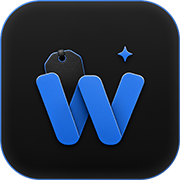
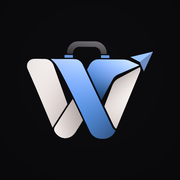
feat(revamp): lights down for Go (same system as Wardrobe)
- Photos float: no grey plates; wardrobe photos are screen-blended into
  whatever is behind them.
- Hairline groups instead of filled navy cards; chips, fields, the
  segmented control, secondary buttons and the sheet close button
  outlined in fog. Solid blue only on each screen's one primary action.
- Archivo for moments (Trips greeting, Gear, New trip, a trip's name);
  system stack for everything else.
- PIN screen: the Go icon and wordmark, outlined keys.
- New icon set from the approved folded-W suitcase, with separate any and
  maskable icons (both public/ and public/icons/).

Checked at 360x756 (Chromium): PIN, Trips, a 72-item trip, Gear, New trip.

diff --git a/src/app/globals.css b/src/app/globals.css
@@ -58,16 +58,33 @@
 }
 
 @layer components {
-  /* Standard card surface */
+  /* A group that is genuinely a group. Revamp ("Lights down", Nov 2026, same
+     system as WearWise Wardrobe): a hairline and the faintest lift instead of
+     a filled navy box. On the black canvas the filled cards were the loudest
+     thing on every screen. */
   .go-card {
-    @apply bg-ink-200 border border-white/[0.06] rounded-[1.65rem];
+    @apply rounded-[1.65rem] border border-white/[0.08] bg-white/[0.025];
   }
 
-  /* One UI grouped list: one surface, rows separated by hairlines. Used for
+  /* Grouped list: one hairline frame, rows separated by hairlines. Used for
      packing sections and the Gear page instead of a card per item. */
   .group-list {
-    @apply overflow-hidden rounded-[1.5rem] border border-white/[0.06] bg-ink-200;
+    @apply overflow-hidden rounded-[1.5rem] border border-white/[0.08] bg-white/[0.02];
   }
+
+  /* Display type: moments only (greeting, page titles, a trip's name).
+     Archivo, opened up slightly on its width axis. Labels never use it. */
+  .type-display {
+    font-family: var(--font-display), 'SamsungOne', -apple-system, system-ui, sans-serif;
+    font-variation-settings: 'wdth' 112;
+    font-weight: 620;
+    letter-spacing: -0.025em;
+  }
+  .type-greeting { @apply type-display text-[31px] leading-[1.06] text-fog-100; }
+  .type-title    { @apply type-display text-[28px] leading-[1.1] text-fog-100; }
+
+  /* A photo whose wrapper animates: blend the wrapper, not the <img>. */
+  .garment { mix-blend-mode: screen; }
 
   /* Section heading. Sentence case, fog white. No uppercase tracked blue
      eyebrows: they restated what the screen already said and spent the
@@ -94,7 +111,7 @@
      switching a view is navigation, not a decision. Selection follows the
      ARIA attribute, so a segment cannot look chosen without announcing it. */
   .seg {
-    @apply grid gap-1 rounded-full bg-white/[0.05] p-1;
+    @apply grid gap-1 rounded-full border border-white/[0.08] p-1;
   }
   .seg-item {
     @apply press flex min-h-[44px] items-center justify-center gap-1.5 rounded-full px-2
@@ -110,9 +127,9 @@
 
   /* Choice chip (vibes, categories). Same selected treatment as a segment. */
   .chip {
-    @apply press inline-flex min-h-[44px] items-center gap-1.5 rounded-full border border-white/[0.08]
-           bg-white/[0.04] px-3.5 text-[13px] font-semibold text-fog-300 transition-colors duration-200
-           hover:bg-white/[0.08] hover:text-fog-100
+    @apply press inline-flex min-h-[44px] items-center gap-1.5 rounded-full border border-white/[0.10]
+           bg-transparent px-3.5 text-[13px] font-semibold text-fog-300 transition-colors duration-200
+           hover:border-white/[0.18] hover:text-fog-100
            focus-visible:outline-none focus-visible:ring-2 focus-visible:ring-blue-400;
   }
   .chip[aria-pressed='true'],
@@ -123,14 +140,16 @@
 
   /* Text input on a surface */
   .field {
-    @apply h-12 w-full rounded-oneui border border-white/[0.06] bg-ink-300 px-4 text-[15px] text-fog-100
+    @apply h-12 w-full rounded-oneui border border-white/[0.10] bg-transparent px-4 text-[15px] text-fog-100
            outline-none transition-colors placeholder:text-fog-500 focus:border-blue-400;
   }
 
-  /* A garment photo's plate. Wardrobe photos are flattened onto black with a
-     faint vignette; blending with `lighten` dissolves that box into the plate. */
-  .photo-well { background: rgb(var(--well)); }
-  .photo-well img { mix-blend-mode: lighten; }
+  /* A garment photo's home. Revamp: no plate. Wardrobe photos are shot on
+     black, so on the black canvas they need nothing, and `screen` dissolves
+     their black into whatever is behind them (a sheet, a hairline group)
+     while adding light rather than flattening shadows like `lighten` did. */
+  .photo-well { background: transparent; }
+  .photo-well img { mix-blend-mode: screen; }
 
   /* Bottom nav surface. Frosted by default (all Safari can do); on Chromium
      useLiquidGlass adds real edge refraction and sets data-glass, which thins

diff --git a/src/app/unlock/page.tsx b/src/app/unlock/page.tsx
@@ -2,6 +2,7 @@
 
 import { cn } from '@/lib/cn';
 import { Delete } from 'lucide-react';
+import Image from 'next/image';
 import { useRouter } from 'next/navigation';
 import { useCallback, useEffect, useRef, useState } from 'react';
 
@@ -75,14 +76,16 @@ export default function UnlockPage() {
   if (welcome) {
     return (
       <main className="flex min-h-dvh flex-col items-center justify-center gap-2">
-        <p className="text-[26px] font-semibold text-fog-100">Welcome back</p>
+        <p className="type-greeting">Welcome back</p>
       </main>
     );
   }
 
   return (
     <main className="flex min-h-dvh flex-col items-center justify-center px-8 pb-10">
-      <p className="text-[15px] font-semibold uppercase tracking-[0.32em] text-fog-100">WearWise Go</p>
+      {/* The app's own mark, then its name. Icons are outside the PIN gate (proxy.ts). */}
+      <Image src="/icon-192.png" alt="" width={72} height={72} priority className="rounded-[22px] ring-1 ring-white/[0.08]" />
+      <h1 className="type-display mt-5 text-[28px] leading-none text-fog-100">WearWise Go</h1>
 
       <p className="mt-3 text-[15px] text-fog-300" aria-live="polite">
         {error ? 'That is not it. Try again.' : 'Enter your PIN'}
@@ -122,7 +125,7 @@ export default function UnlockPage() {
               type="button"
               onClick={() => push(k)}
               disabled={busy}
-              className="press mx-auto flex h-16 w-16 items-center justify-center rounded-full bg-white/[0.05] text-[24px] font-medium text-fog-100 transition-colors active:bg-blue-400/20 disabled:opacity-40 focus-visible:outline-none focus-visible:ring-2 focus-visible:ring-blue-400"
+              className="press mx-auto flex h-16 w-16 items-center justify-center rounded-full border border-white/[0.10] text-[25px] font-normal text-fog-100 transition-colors active:border-blue-400/60 active:bg-blue-400/15 disabled:opacity-40 focus-visible:outline-none focus-visible:ring-2 focus-visible:ring-blue-400"
             >
               {k}
             </button>

diff --git a/src/components/TravelItemSheet.tsx b/src/components/TravelItemSheet.tsx
@@ -58,7 +58,7 @@ export function TravelItemSheet({ item, onClose, onDeleted }: Props) {
     <OneUISheet open onClose={close} title="Gear">
       <div className="space-y-5">
         <div className="flex items-center gap-4">
-          <div className="relative flex h-[72px] w-[72px] shrink-0 items-center justify-center overflow-hidden rounded-[1.2rem] bg-ink-300">
+          <div className="relative flex h-[72px] w-[72px] shrink-0 items-center justify-center overflow-hidden rounded-[1.2rem] border border-white/[0.10]">
             {display.image ? (
               <Image src={display.image} alt={item.name} width={144} height={144} className="h-full w-full object-cover" />
             ) : (
@@ -81,18 +81,18 @@ export function TravelItemSheet({ item, onClose, onDeleted }: Props) {
             {CATEGORY_LABELS[item.category]}
           </span>
           {item.layer && (
-            <span className="rounded-full bg-ink-300 px-3 py-1.5 text-[12px] font-medium text-fog-300">
+            <span className="rounded-full border border-white/[0.10] px-3 py-1.5 text-[12px] font-medium text-fog-300">
               {LAYER_LABELS[item.layer] ?? item.layer}
             </span>
           )}
           {item.size_ml != null && (
-            <span className="flex items-center gap-1 rounded-full bg-ink-300 px-3 py-1.5 text-[12px] font-medium text-fog-300">
+            <span className="flex items-center gap-1 rounded-full border border-white/[0.10] px-3 py-1.5 text-[12px] font-medium text-fog-300">
               <Droplets size={12} aria-hidden="true" />
               {item.size_ml} ml
             </span>
           )}
           {item.tags.map((tag) => (
-            <span key={tag} className="rounded-full bg-ink-300 px-3 py-1.5 text-[12px] font-medium text-fog-500">
+            <span key={tag} className="rounded-full border border-white/[0.10] px-3 py-1.5 text-[12px] font-medium text-fog-500">
               {tag}
             </span>
           ))}

diff --git a/src/app/trips/new/page.tsx b/src/app/trips/new/page.tsx
@@ -185,7 +185,7 @@ function NewTripForm() {
         >
           <ArrowLeft size={21} aria-hidden />
         </Link>
-        <h1 className="mt-2 px-1 text-[28px] font-semibold leading-[1.15] tracking-tight text-fog-100">
+        <h1 className="mt-2 px-1 type-title">
           {source ? `Again: ${source.name}` : 'Where to?'}
         </h1>
         <p className="mt-1 px-1 text-[14px] text-fog-300">
@@ -239,7 +239,7 @@ function NewTripForm() {
                   // app; the blue is only the icon, marking which one.
                   transport === mode
                     ? 'border-white/[0.16] bg-ink-500 text-fog-100 shadow-[0_1px_0_rgb(255_255_255/0.07)_inset]'
-                    : 'border-white/[0.06] bg-ink-200 text-fog-300 hover:bg-ink-300',
+                    : 'border-white/[0.10] bg-transparent text-fog-300 hover:border-white/[0.18]',
                 )}
               >
                 <Icon size={19} aria-hidden className={transport === mode ? 'text-blue-300' : 'text-fog-400'} />
@@ -324,7 +324,7 @@ function ToggleRow({
   onChange: (checked: boolean) => void;
 }) {
   return (
-    <div className="flex min-h-[68px] items-center justify-between gap-4 rounded-[1.35rem] border border-white/[0.06] bg-ink-200 px-4 py-3">
+    <div className="flex min-h-[68px] items-center justify-between gap-4 rounded-[1.35rem] border border-white/[0.10] bg-transparent px-4 py-3">
       <div className="flex min-w-0 items-center gap-3">
         <span className="flex h-9 w-9 shrink-0 items-center justify-center rounded-full bg-white/[0.06] text-fog-300">{icon}</span>
         <div className="min-w-0">

diff --git a/src/components/packing/ItemSheet.tsx b/src/components/packing/ItemSheet.tsx
@@ -122,7 +122,7 @@ function ItemForm({ item, onSave, onRemove, onClose }: { item: PackingItem } & O
         />
       </label>
 
-      <div className="flex min-h-[56px] items-center justify-between gap-4 rounded-[1.25rem] bg-white/[0.04] px-4">
+      <div className="flex min-h-[56px] items-center justify-between gap-4 rounded-[1.25rem] border border-white/[0.08] px-4">
         <span className="min-w-0">
           <span className="block text-[15px] font-semibold text-fog-100">Pack last</span>
           <span className="block text-[12px] text-fog-400">You still use it the morning you leave</span>
@@ -155,7 +155,7 @@ function ItemForm({ item, onSave, onRemove, onClose }: { item: PackingItem } & O
           type="button"
           onClick={() => void remove()}
           disabled={busy}
-          className={`press flex h-14 shrink-0 items-center justify-center gap-2 rounded-full px-5 text-[15px] font-semibold transition-colors ${confirmRemove ? 'bg-red-500/20 text-red-300' : 'bg-white/[0.06] text-fog-200 hover:bg-white/[0.1]'}`}
+          className={`press flex h-14 shrink-0 items-center justify-center gap-2 rounded-full px-5 text-[15px] font-semibold transition-colors ${confirmRemove ? 'bg-red-500/20 text-red-300' : 'border border-white/[0.12] text-fog-200 hover:border-white/[0.2]'}`}
         >
           <Trash2 size={16} aria-hidden />
           {confirmRemove ? 'Tap to confirm' : 'Remove'}

diff --git a/src/app/layout.tsx b/src/app/layout.tsx
@@ -1,8 +1,20 @@
 import type { Metadata, Viewport } from 'next';
+import { Archivo } from 'next/font/google';
 import './globals.css';
 import { BottomNav } from '@/components/BottomNav';
 import { ServiceWorkerRegister } from '@/components/ServiceWorkerRegister';
 import { InstallPrompt } from '@/components/InstallPrompt';
+
+/**
+ * Display face for moments only (greeting, page titles, a trip's name), shared
+ * with WearWise Wardrobe. Everything else stays on the system stack.
+ */
+const display = Archivo({
+  subsets: ['latin'],
+  axes: ['wdth'],
+  variable: '--font-display',
+  display: 'swap',
+});
 
 export const metadata: Metadata = {
   metadataBase: new URL('https://wearwise-go-by-algothrim.vercel.app'),
@@ -58,7 +70,7 @@ export const viewport: Viewport = {
 
 export default function RootLayout({ children }: { children: React.ReactNode }) {
   return (
-    <html lang="en" className="h-full">
+    <html lang="en" className={`${display.variable} h-full`}>
       <body className="h-full bg-ink-0 text-fog-100 font-sans antialiased overflow-x-hidden">
         <ServiceWorkerRegister />
         <main className="mx-auto max-w-xl min-h-dvh pb-nav">{children}</main>

diff --git a/src/app/items/page.tsx b/src/app/items/page.tsx
@@ -69,7 +69,7 @@ export default function ItemsPage() {
     <>
       <header className="flex items-end justify-between gap-4 px-5 pb-4 pt-12">
         <div className="min-w-0">
-          <h1 className="text-[30px] font-semibold leading-[1.15] tracking-tight text-fog-100">Gear</h1>
+          <h1 className="type-title">Gear</h1>
           <p className="mt-1.5 text-[15px] text-fog-300">
             {loading ? 'What you travel with.' : `${list.length} things Go can pack for you.`}
           </p>
@@ -80,7 +80,7 @@ export default function ItemsPage() {
       <div className="flex flex-col gap-6 px-4 pb-8">
         <a
           href={WARDROBE_URL}
-          className="press go-card flex min-h-[64px] items-center gap-3 px-4 py-3 transition-colors hover:bg-ink-300"
+          className="press go-card flex min-h-[64px] items-center gap-3 px-4 py-3 transition-colors hover:border-white/[0.16]"
         >
           <span className="flex h-9 w-9 shrink-0 items-center justify-center rounded-full bg-white/[0.06] text-fog-200">
             <Shirt size={17} aria-hidden />

diff --git a/src/components/oneui/OneUIButton.tsx b/src/components/oneui/OneUIButton.tsx
@@ -26,8 +26,9 @@ export const OneUIButton = forwardRef<HTMLButtonElement, OneUIButtonProps>(
           size === 'lg' && 'h-14 px-8 text-base rounded-oneui-lg gap-2',
           // variant
           variant === 'primary'   && 'bg-blue-400 text-ink-0 hover:bg-blue-500 active:bg-blue-600',
-          variant === 'secondary' && 'bg-ink-200 text-fog-100 hover:bg-ink-300 active:bg-ink-400',
-          variant === 'ghost'     && 'bg-transparent text-blue-300 hover:bg-blue-400/10 active:bg-blue-400/20',
+          // Revamp: anything that is not the primary action is outlined in fog.
+          variant === 'secondary' && 'border border-white/[0.12] bg-transparent text-fog-100 hover:border-white/[0.2] hover:bg-white/[0.04]',
+          variant === 'ghost'     && 'bg-transparent text-fog-200 hover:bg-white/[0.06] hover:text-fog-100',
           variant === 'danger'    && 'bg-red-600/20 text-red-400 hover:bg-red-600/30 active:bg-red-600/40',
           className,
         )}

diff --git a/src/components/AddTravelItem.tsx b/src/components/AddTravelItem.tsx
@@ -79,7 +79,7 @@ export function AddTravelItem({ variant = 'header', onAdded }: Props) {
           type="button"
           onClick={openSheet}
           aria-label="Add gear"
-          className="press flex h-11 items-center gap-1.5 rounded-full bg-white/[0.08] pl-3 pr-4 text-[14px] font-semibold text-fog-100 transition-colors hover:bg-white/[0.12] focus-visible:outline-none focus-visible:ring-2 focus-visible:ring-blue-400"
+          className="press flex h-11 items-center gap-1.5 rounded-full border border-white/[0.12] pl-3 pr-4 text-[14px] font-semibold text-fog-100 transition-colors hover:border-white/[0.2] focus-visible:outline-none focus-visible:ring-2 focus-visible:ring-blue-400"
         >
           <Plus size={17} strokeWidth={2.4} aria-hidden />
           Add

diff --git a/src/components/oneui/OneUISheet.tsx b/src/components/oneui/OneUISheet.tsx
@@ -58,7 +58,7 @@ export function OneUISheet({ open, onClose, title, children, className }: OneUIS
             <button
               onClick={onClose}
               aria-label="Close sheet"
-              className="press flex h-11 w-11 items-center justify-center rounded-full bg-white/[0.08] text-fog-200 transition-colors hover:bg-white/[0.12]"
+              className="press flex h-11 w-11 items-center justify-center rounded-full border border-white/[0.12] text-fog-200 transition-colors hover:border-white/[0.2] hover:text-fog-100"
             >
               <X size={18} strokeWidth={2.1} />
             </button>

diff --git a/src/app/trips/[id]/page.tsx b/src/app/trips/[id]/page.tsx
@@ -318,7 +318,7 @@ export default function TripDetailPage() {
           </button>
         </div>
 
-        <h1 className="mt-2 px-1 text-[28px] font-semibold leading-[1.15] tracking-tight text-fog-100 text-balance">{trip.name}</h1>
+        <h1 className="mt-2 px-1 type-title text-balance">{trip.name}</h1>
         <p className="mt-1 px-1 text-[14px] text-fog-300">
           {/* The state the weather came from, so a wrong match ("Manali" in
               Tamil Nadu) is visible rather than silently packed for. Skipped

diff --git a/tailwind.config.ts b/tailwind.config.ts
@@ -69,6 +69,8 @@ const config: Config = {
       fontFamily: {
         sans: ['SamsungOne', 'SamsungSharpSans', '-apple-system', 'BlinkMacSystemFont', 'Segoe UI', 'sans-serif'],
         mono: ['ui-monospace', 'SFMono-Regular', 'Menlo', 'monospace'],
+        // Moments only (see layout.tsx). Never on labels, buttons or data.
+        display: ['var(--font-display)', 'SamsungOne', '-apple-system', 'system-ui', 'sans-serif'],
       },
       // Shared with WearWise Wardrobe
       fontSize: {
